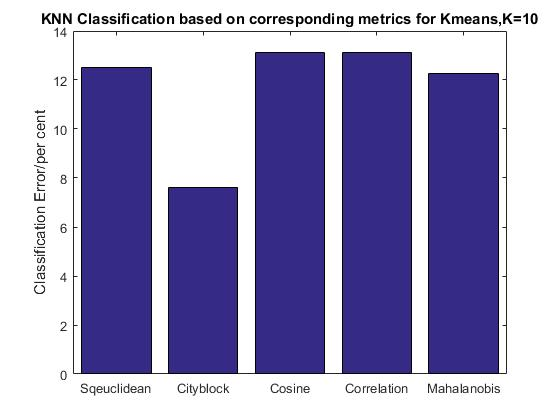
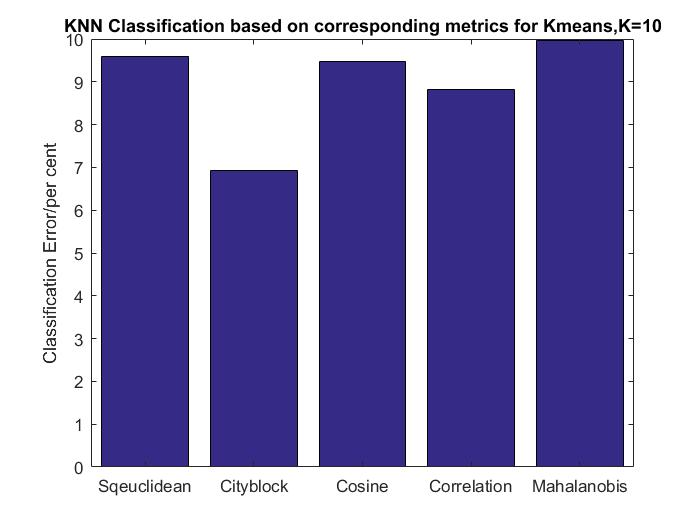
Q2 completed

Changed region(s): [[0.0607, 0.031, 0.9714, 0.9595], [0.3036, 0.8667, 0.4857, 0.9595], [0.4857, 0.8976, 0.5464, 0.9595]]

diff --git a/CW2Q2K10.m b/CW2Q2K10.m
@@ -63,10 +63,9 @@ covMatrixC3Norm = cov(trainingNormWineDataC3);
 %% Q2) Kmeans clustering
     %Sqeuclidian
     [sqeuclidianTrainingIndex10, sqeuclidianTrainingClassCentre10] = kmeans(normTrainingWineData, 10, 'Replicate', 100);
-    [sqeuclidianTrainingIndex3, sqeuclidianTrainingClassCentre3] = kmeans(sqeuclidianTrainingClassCentre10, 3, 'Replicate', 100);
     %silhouette(normTrainingWineData,sqeuclidianTrainingIndex);
     sqeuclidianKMeansIndex10 = sqeuclideanDist(sqeuclidianTrainingClassCentre10, normTestingWineData);
-    sqeuclidianKMeansIndex = LookupKMeansIndex(sqeuclidianTrainingIndex3, sqeuclidianKMeansIndex10);
+    sqeuclidianKMeansIndex = LookupKMeansIndex(sqeuclidianTrainingIndex10, sqeuclidianKMeansIndex10, trainingDataClassLabel, 10);
     sqeuclidianErr = classificationErr(sqeuclidianKMeansIndex, 3);
     errorMatrix(1, i) = sqeuclidianErr;
     % figure;
@@ -77,25 +76,22 @@ covMatrixC3Norm = cov(trainingNormWineDataC3);
 
     % %cityblock
     [cityblockTrainingIndex10, cityblockTrainingClassCentre10] = kmeans(normTrainingWineData, 10, 'Replicate', 100, 'Distance', 'cityblock'); 
-    [cityblockTrainingIndex3, cityblockTrainingClassCentre3] = kmeans(cityblockTrainingClassCentre10, 3, 'Replicate', 100, 'Distance', 'cityblock');
     cityblockKMeansIndex10 = knnsearch(cityblockTrainingClassCentre10, normTestingWineData, 'Distance', 'cityblock');
-    cityblockKMeansIndex = LookupKMeansIndex(cityblockTrainingIndex3, cityblockKMeansIndex10);
+    cityblockKMeansIndex = LookupKMeansIndex(cityblockTrainingIndex10, cityblockKMeansIndex10, trainingDataClassLabel, 10);
     cityblockErr = classificationErr(cityblockKMeansIndex, 3);
     errorMatrix(2, i) = cityblockErr;
 
     %Cosine
     [cosineTrainingIndex10, cosineTrainingClassCentre10] = kmeans(normTrainingWineData, 10, 'Replicate', 100, 'Distance', 'cosine');
-    [cosineTrainingIndex3, cosineTrainingClassCentre3] = kmeans(cosineTrainingClassCentre10, 3, 'Replicate', 100, 'Distance', 'cosine'); 
     cosineKMeansIndex10 = knnsearch(cosineTrainingClassCentre10, normTestingWineData, 'Distance', 'cosine');
-    cosineKMeansIndex = LookupKMeansIndex(cosineTrainingIndex3, cosineKMeansIndex10);
+    cosineKMeansIndex = LookupKMeansIndex(cosineTrainingIndex10, cosineKMeansIndex10, trainingDataClassLabel, 10);
     cosineErr = classificationErr(cosineKMeansIndex, 3);
     errorMatrix(3, i) = cosineErr;
 
     %Correlation
     [correlationTrainingIndex10, correlationTrainingClassCentre10] = kmeans(normTrainingWineData, 10, 'Replicate', 100, 'Distance', 'correlation'); 
-    [correlationTrainingIndex3, correlationTrainingClassCentre3] = kmeans(correlationTrainingClassCentre10, 3, 'Replicate', 100, 'Distance', 'correlation'); 
     correlationKMeansIndex10 = knnsearch(correlationTrainingClassCentre10, normTestingWineData, 'Distance', 'correlation');
-    correlationKMeansIndex = LookupKMeansIndex(cosineTrainingIndex3, cosineKMeansIndex10);
+    correlationKMeansIndex = LookupKMeansIndex(correlationTrainingIndex10, correlationKMeansIndex10, trainingDataClassLabel, 10);
     correlationErr = classificationErr(correlationKMeansIndex, 3);
     errorMatrix(4, i) = correlationErr; 
      
@@ -103,9 +99,8 @@ covMatrixC3Norm = cov(trainingNormWineDataC3);
     upperTriag = chol(covMatrixAllNorm);
     transformedTrainingWineData = normTrainingWineData * upperTriag;
     [mahalanobisTrainingIndex10, mahalanobisTrainingClassCentre10] = kmeans(transformedTrainingWineData, 10, 'Replicates', 100); 
-    [mahalanobisTrainingIndex3, mahalanobisTrainingClassCentre3] = kmeans(mahalanobisTrainingClassCentre10, 3, 'Replicates', 100); 
     mahalanobisKMeansIndex10 = knnsearch(mahalanobisTrainingClassCentre10, normTestingWineData * upperTriag, 'Distance', 'mahalanobis', 'Cov', covMatrixAllNorm);
-    mahalanobisKMeansIndex = LookupKMeansIndex(mahalanobisTrainingIndex3, mahalanobisKMeansIndex10);
+    mahalanobisKMeansIndex = LookupKMeansIndex(mahalanobisTrainingIndex10, mahalanobisKMeansIndex10, trainingDataClassLabel, 10);
     mahalanobisErr = classificationErr(mahalanobisKMeansIndex, 3);
     errorMatrix(5, i) = mahalanobisErr;
 end

diff --git a/LookupKMeansIndex.m b/LookupKMeansIndex.m
@@ -1,6 +1,20 @@
-function res = LookupKMeansIndex(trainingIndex3, KMeansIndex10)
+function res = LookupKMeansIndex(trainingIndex10, testIndex10, standardTrainingClassLabel, K)
     res = zeros(40,1);
-    for i = 1 : size(KMeansIndex10,1)
-        res(i) = trainingIndex3(KMeansIndex10(i));
+    clusterLookup = zeros(K, 1);
+    mergeIndex = [trainingIndex10,standardTrainingClassLabel'];
+    
+    for i = 1 : K
+        tempLookup = zeros(size(mergeIndex, 1), 1);
+        for j = 1 : size(mergeIndex, 1) 
+            if mergeIndex(j,1) == i
+                tempLookup(j) = mergeIndex(j,2);
+            end
+        end
+        tempLookup = tempLookup(tempLookup~=0); %remove zeros from array
+        clusterLookup(i) = mode(tempLookup);
+    end
+    
+    for i = 1 : size(testIndex10, 1)
+        res(i) = clusterLookup(testIndex10(i));
     end
 end

diff --git a/plotNNErrorRate.m b/plotNNErrorRate.m
@@ -35,7 +35,7 @@ title('KNN Classification based on Correlation Metric for Kmeans');
 set(gca,'xticklabel', xLabel); 
 ylabel('Classification Error/per cent');
 
-errMatrix = [12.5000,7.6250,13.1250,13.1250,12.2500];
+errMatrix = [9.6000, 6.9250, 9.4750, 8.8250, 9.9750];
 figure;
 bar(errMatrix')
 title('KNN Classification based on corresponding metrics for Kmeans,K=10');
